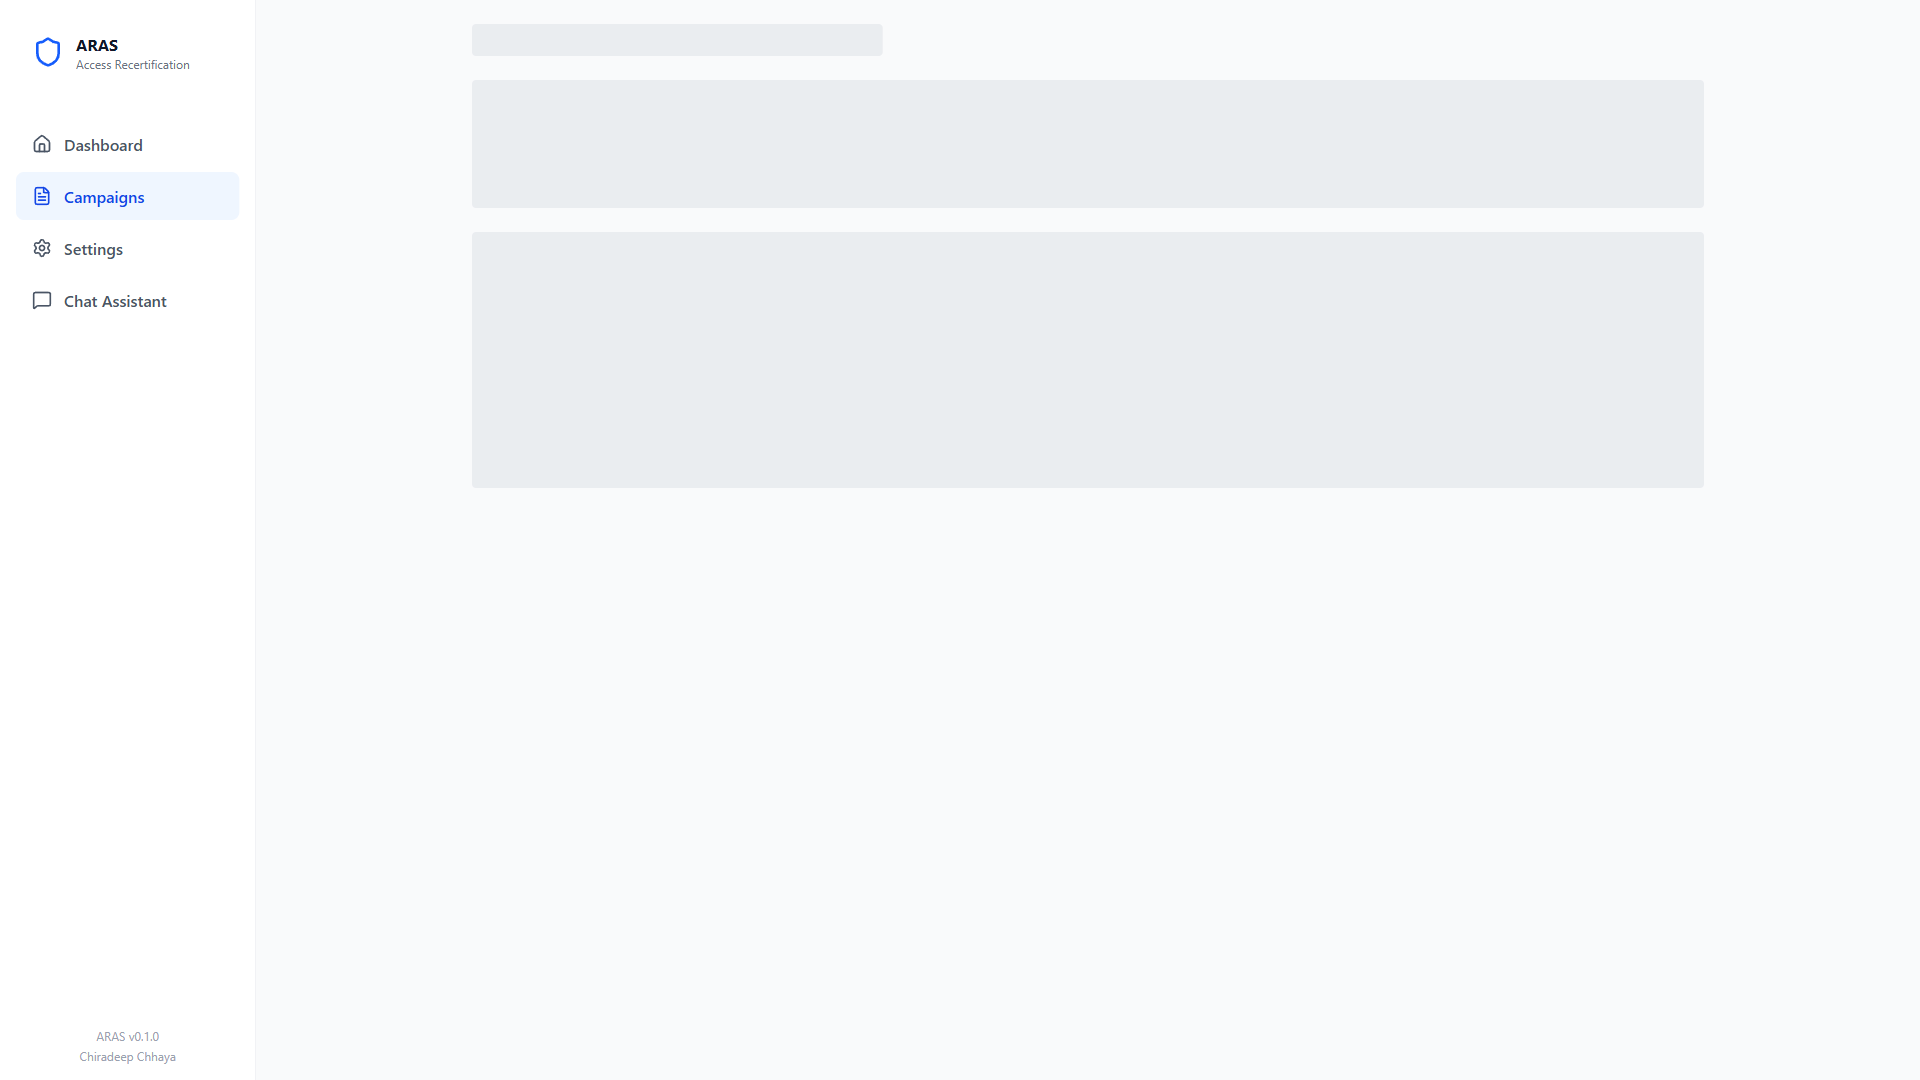
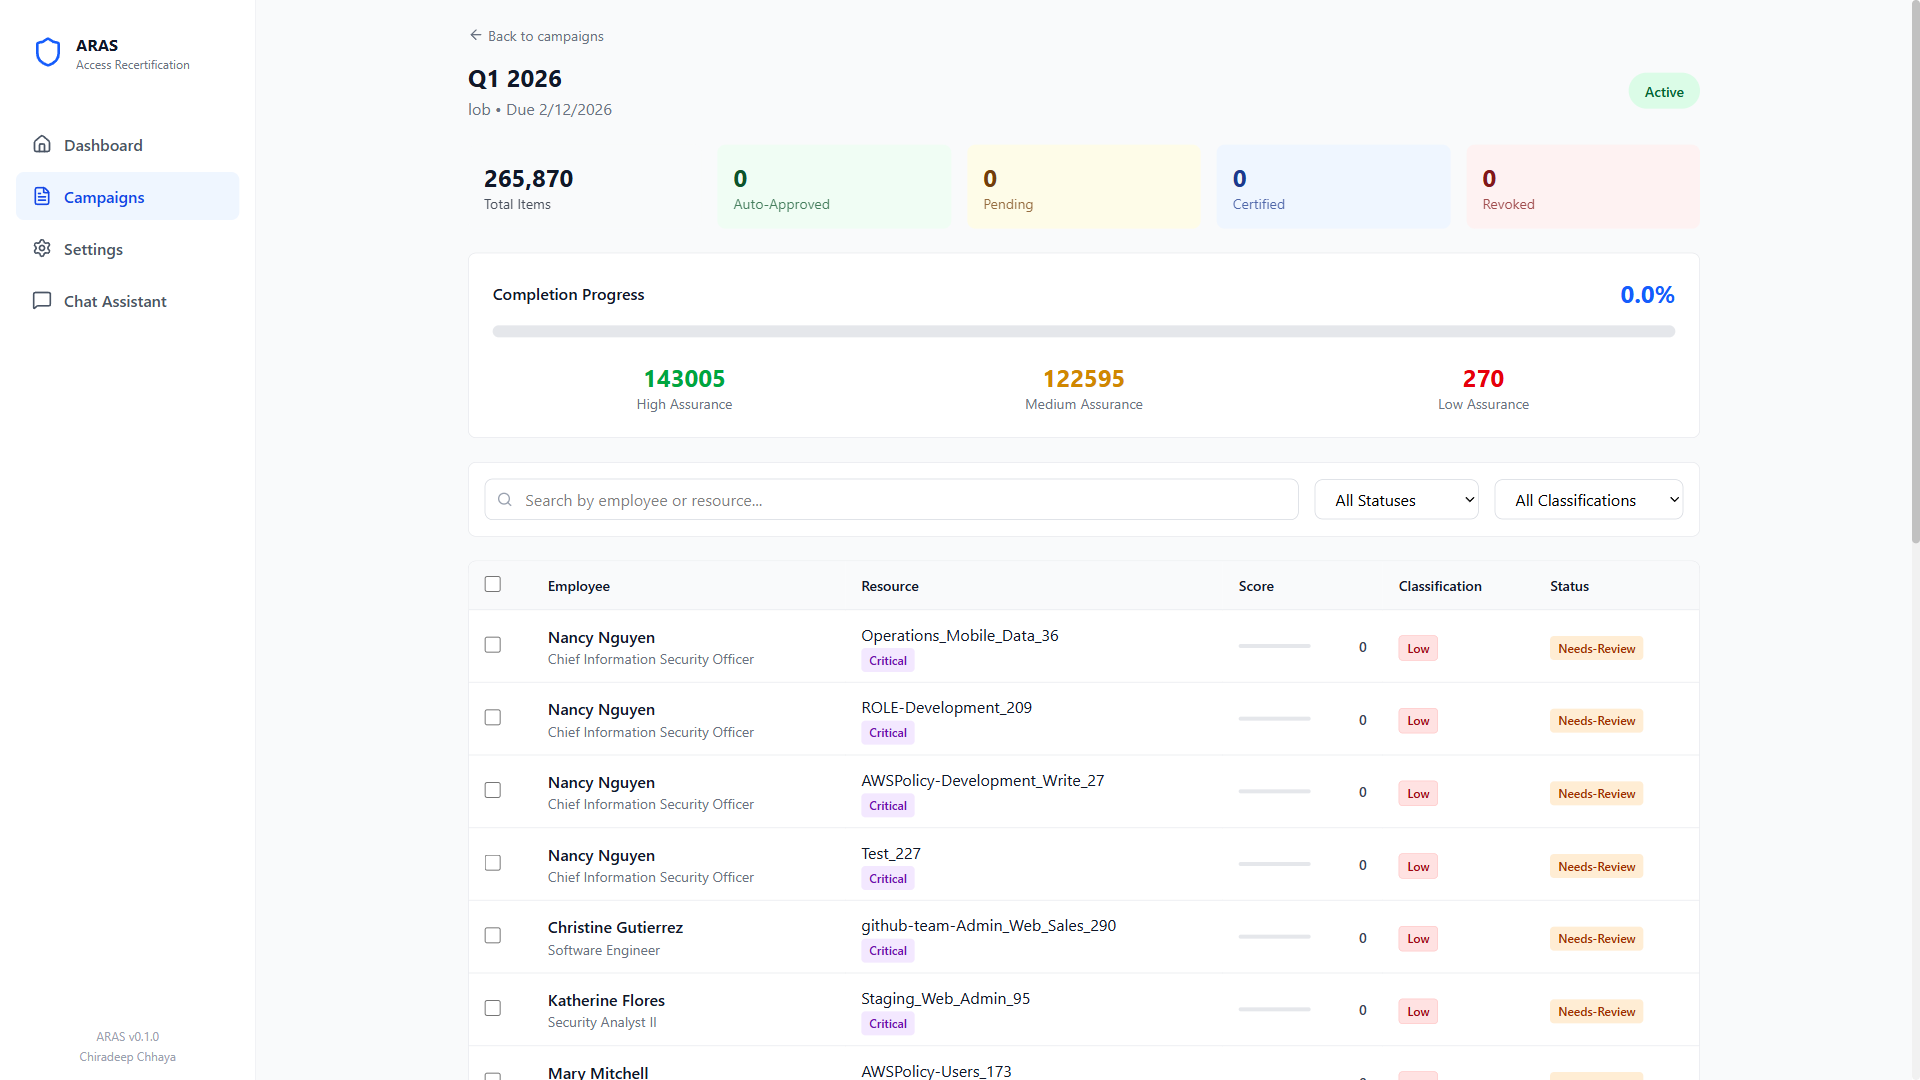
Update demo screenshots with actual data
- Fix wait_for_table_data() to wait for checkboxes (real data indicator)
- Regenerate all campaign detail screenshots with actual data
- Add 06b_human_review_warning.png showing clustering disagreement

Screenshots now properly show:
- Employee names, resources, scores, classifications, statuses
- Review item detail with Human Review Required warning
- Clustering disagreement explanation

diff --git a/scripts/demo_screenshots.py b/scripts/demo_screenshots.py
@@ -90,15 +90,16 @@ async def demo_create_campaign(page: Page):
             await asyncio.sleep(0.2)
 
 
-async def wait_for_table_data(page: Page, timeout: int = 15000):
+async def wait_for_table_data(page: Page, timeout: int = 20000):
     """Wait for table to have actual data rows (not skeleton loaders)."""
     try:
-        # Wait for either real data rows or "No review items found" message
+        # Wait for either checkboxes (real data) or "No review items found" message
+        # Checkboxes only appear in actual data rows, not skeleton loaders
         await page.wait_for_selector(
-            "table tbody tr:not(:has(.animate-pulse)), table tbody tr:has(td[colspan])",
+            "table tbody tr input[type='checkbox'], table tbody td:has-text('No review items')",
             timeout=timeout
         )
-        await asyncio.sleep(0.3)  # Small buffer for rendering
+        await asyncio.sleep(0.5)  # Buffer for full render
     except:
         print("    [WARN] Table data may not have loaded completely")
 
